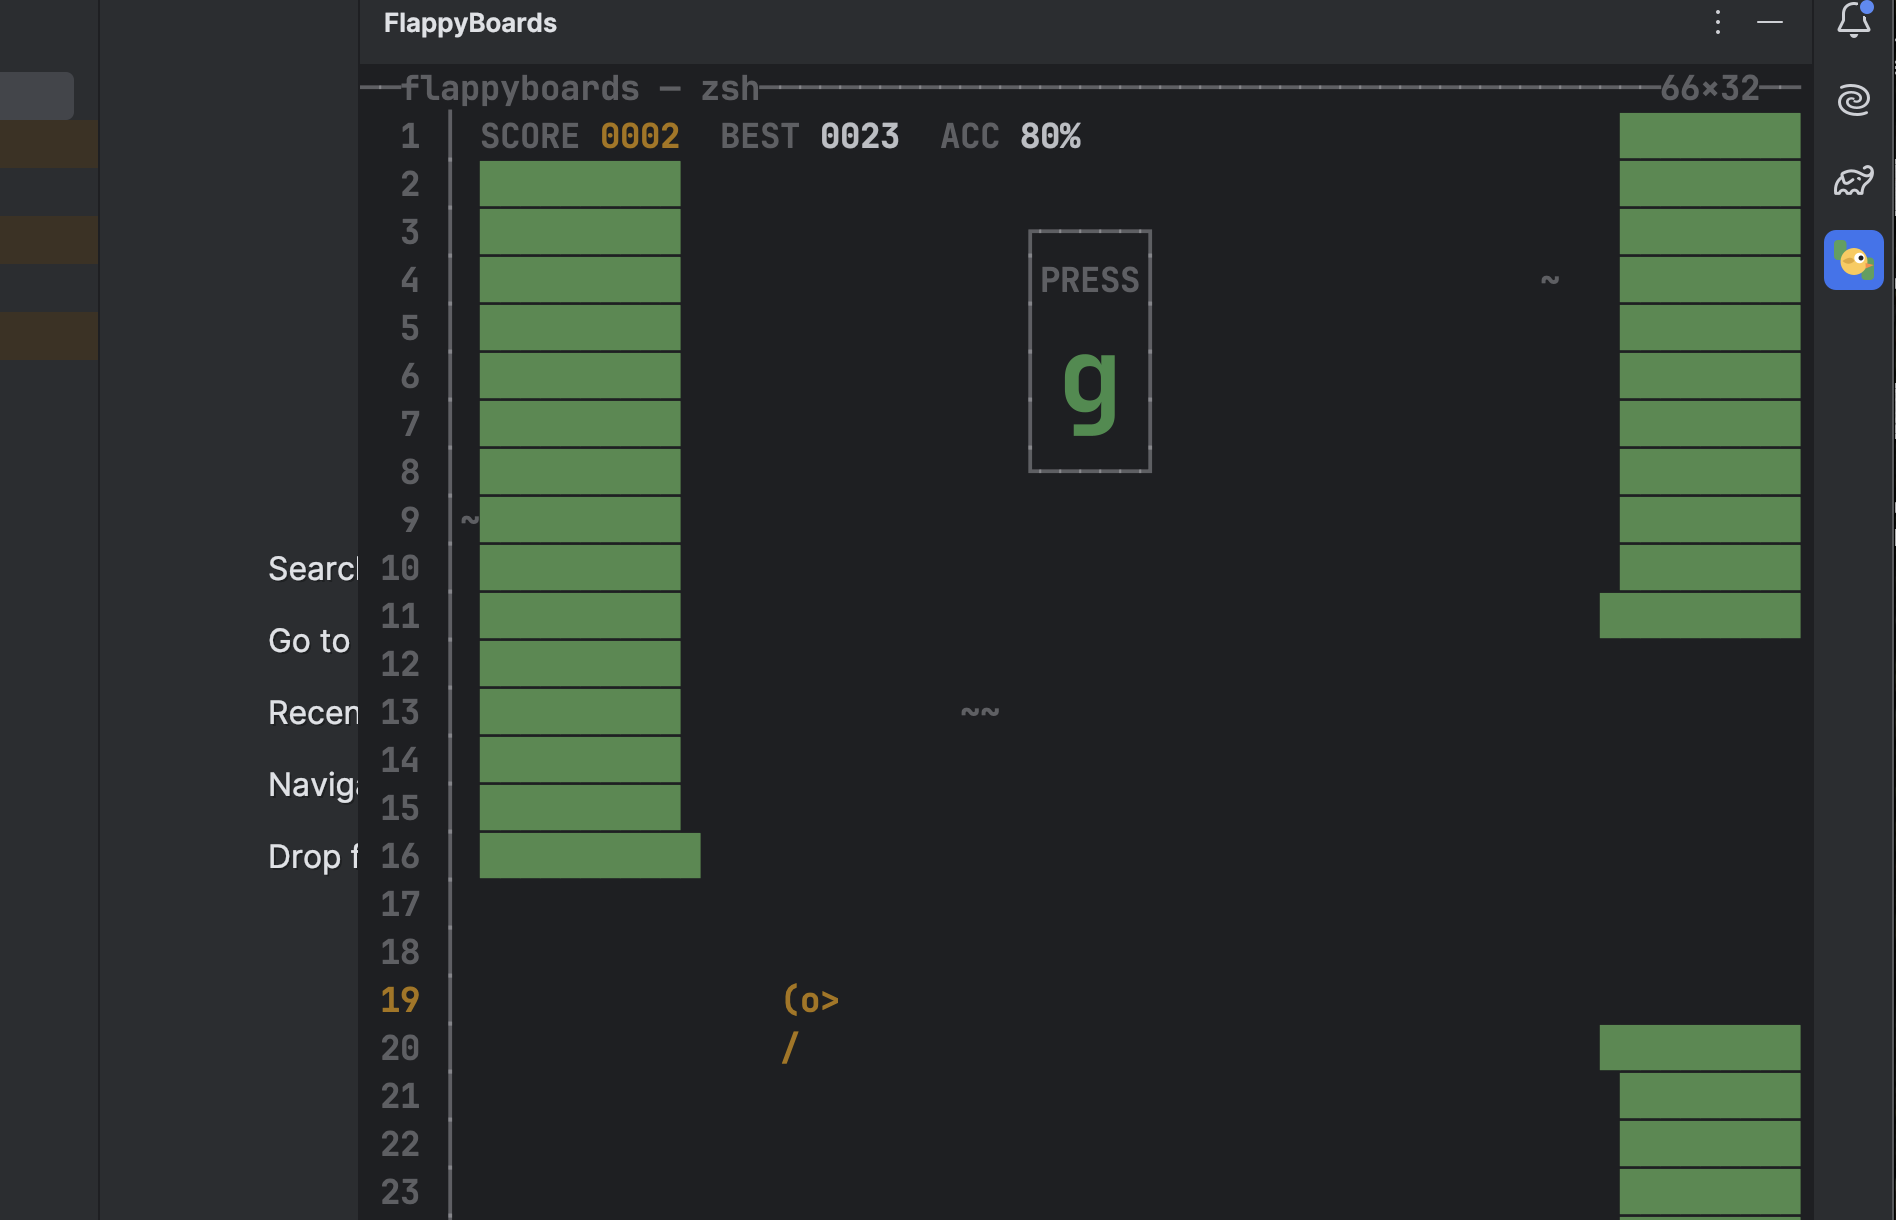
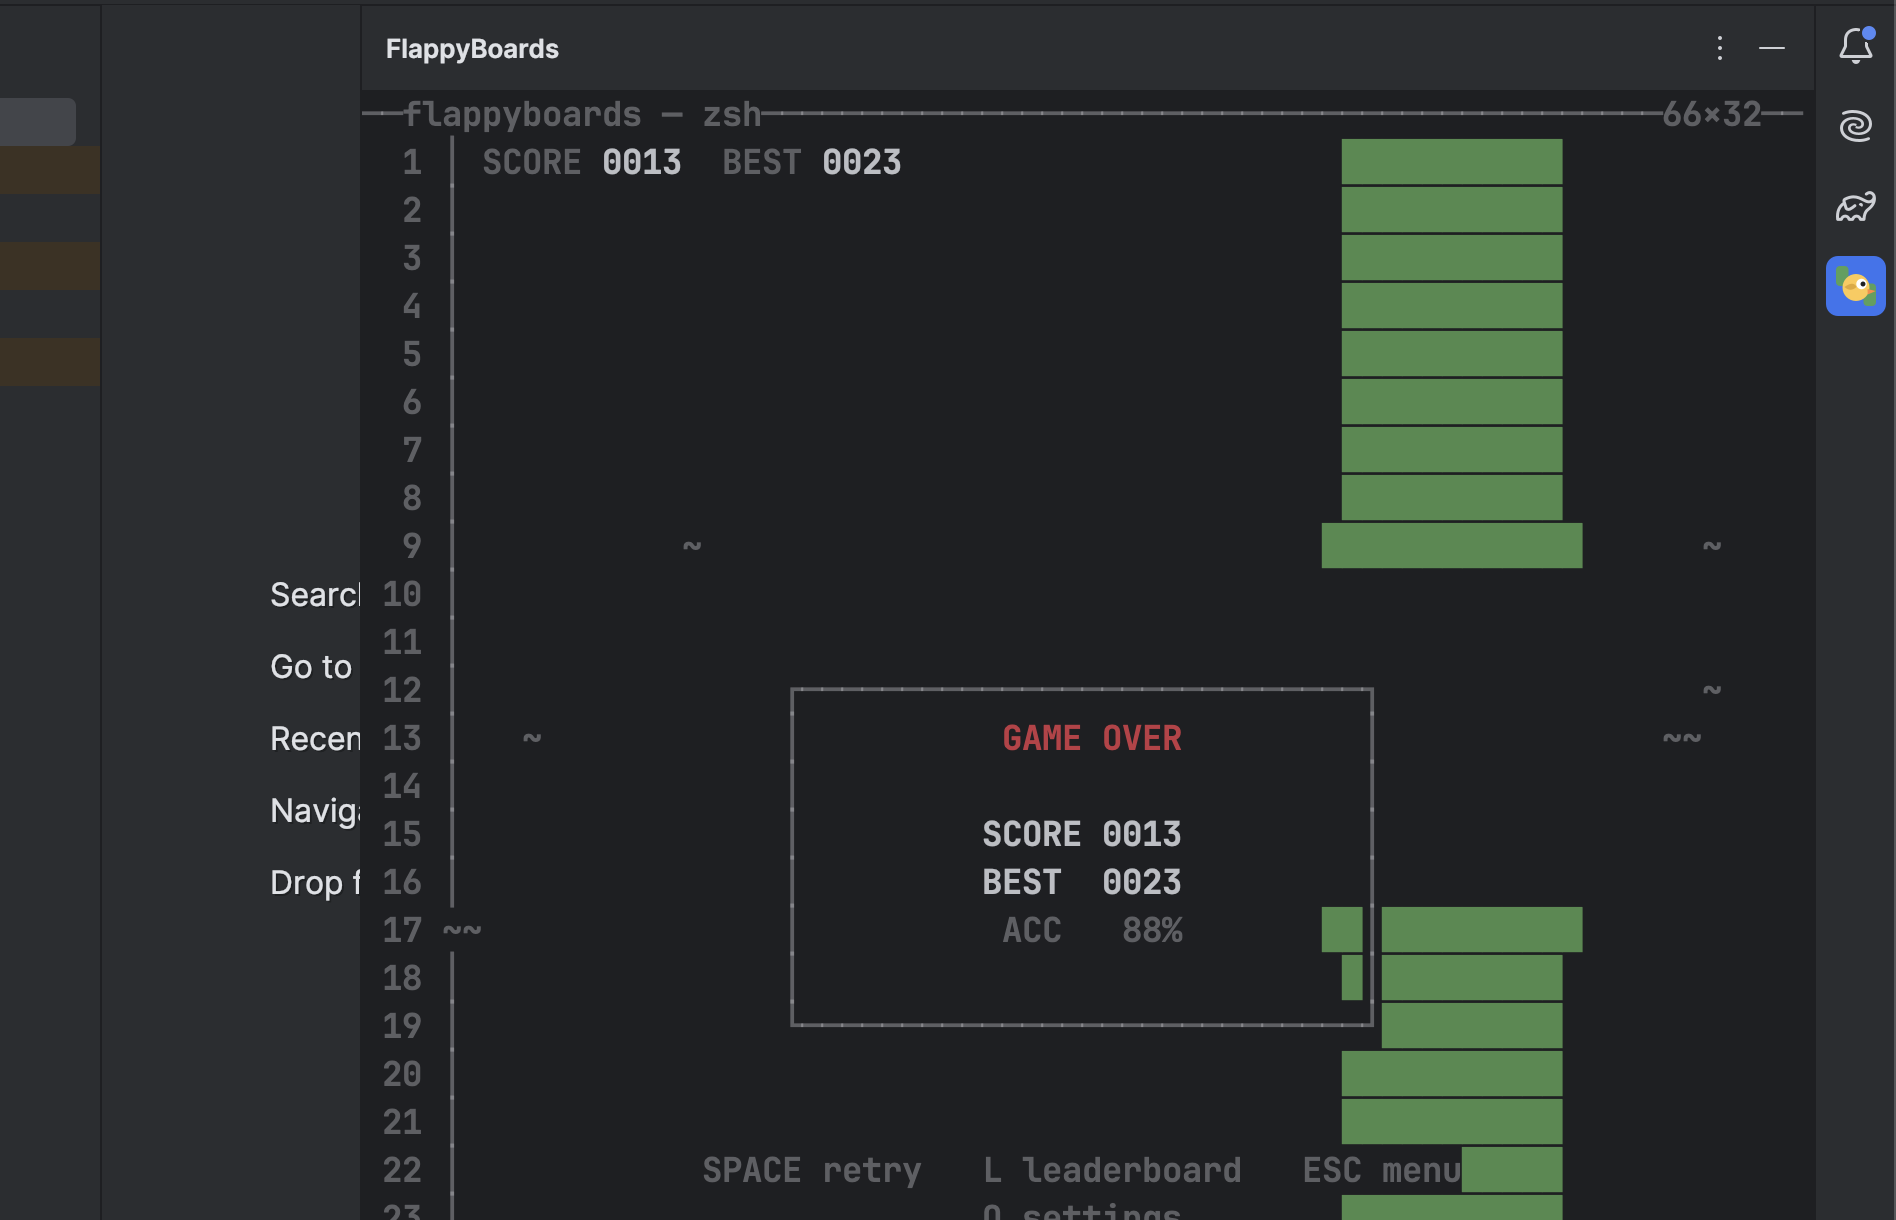
docs: add screenshots (terminal mode, boss screen, leaderboard, ready, menu, game over)

diff --git a/README.md b/README.md
@@ -4,6 +4,14 @@
 
 Отличие от классики: птица flap'ает **только по нажатию клавиши, которая показана на экране**, и после каждого нажатия клавиша меняется. Промах — птица проседает вниз. Соревнуйся с другими разрабами на глобальном лидерборде (Supabase).
 
+## Скриншоты
+
+![Игра прямо в IDE — терминальный режим](screenshots/in-ide.png)
+
+| Старт раунда | Босс-скрин (пауза) | Лидерборд |
+|---|---|---|
+| ![старт раунда](screenshots/ready.png) | ![босс-скрин](screenshots/boss.png) | ![лидерборд](screenshots/leaderboard.png) |
+
 ## Механика
 
 - **Экран подготовки**: раунд не стартует сразу — птица парит на месте, крупно показана первая клавиша; игра начинается с первого верного нажатия
